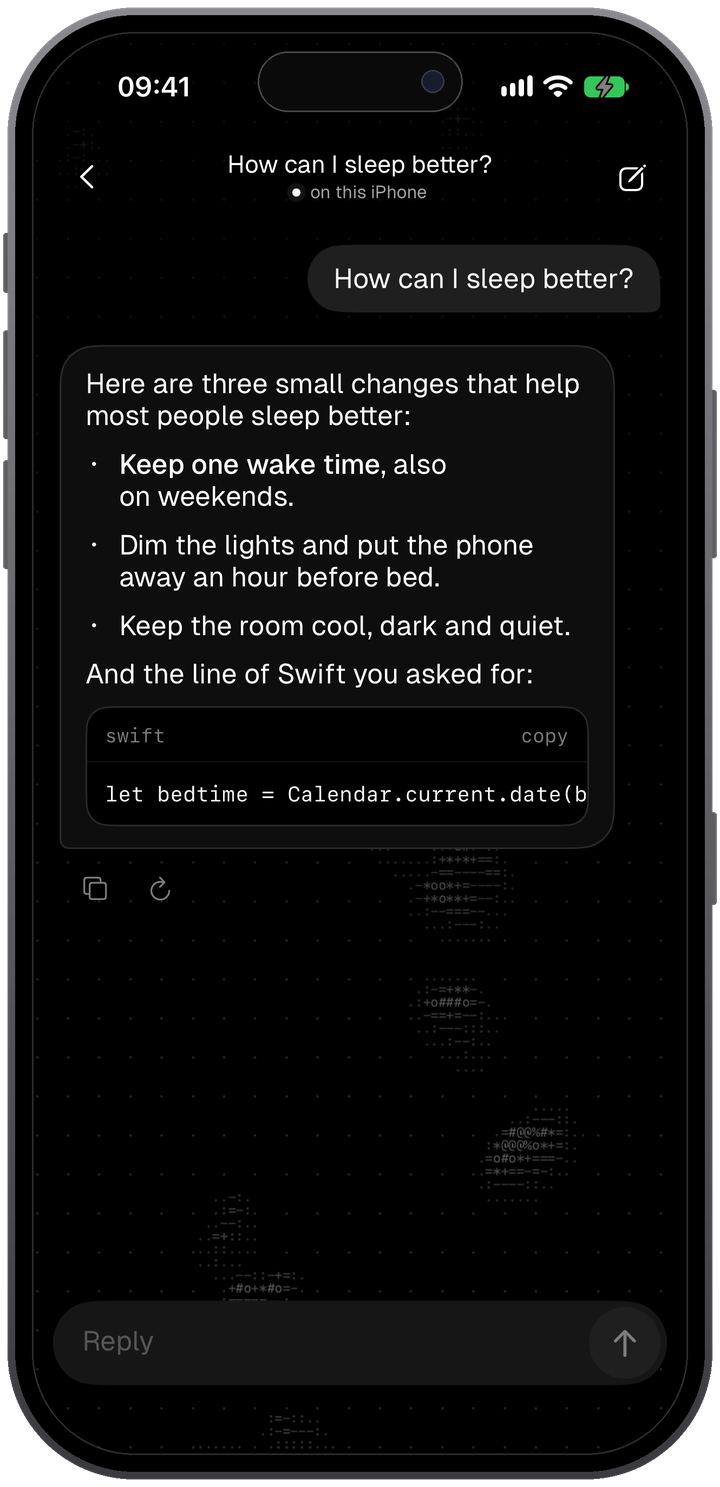
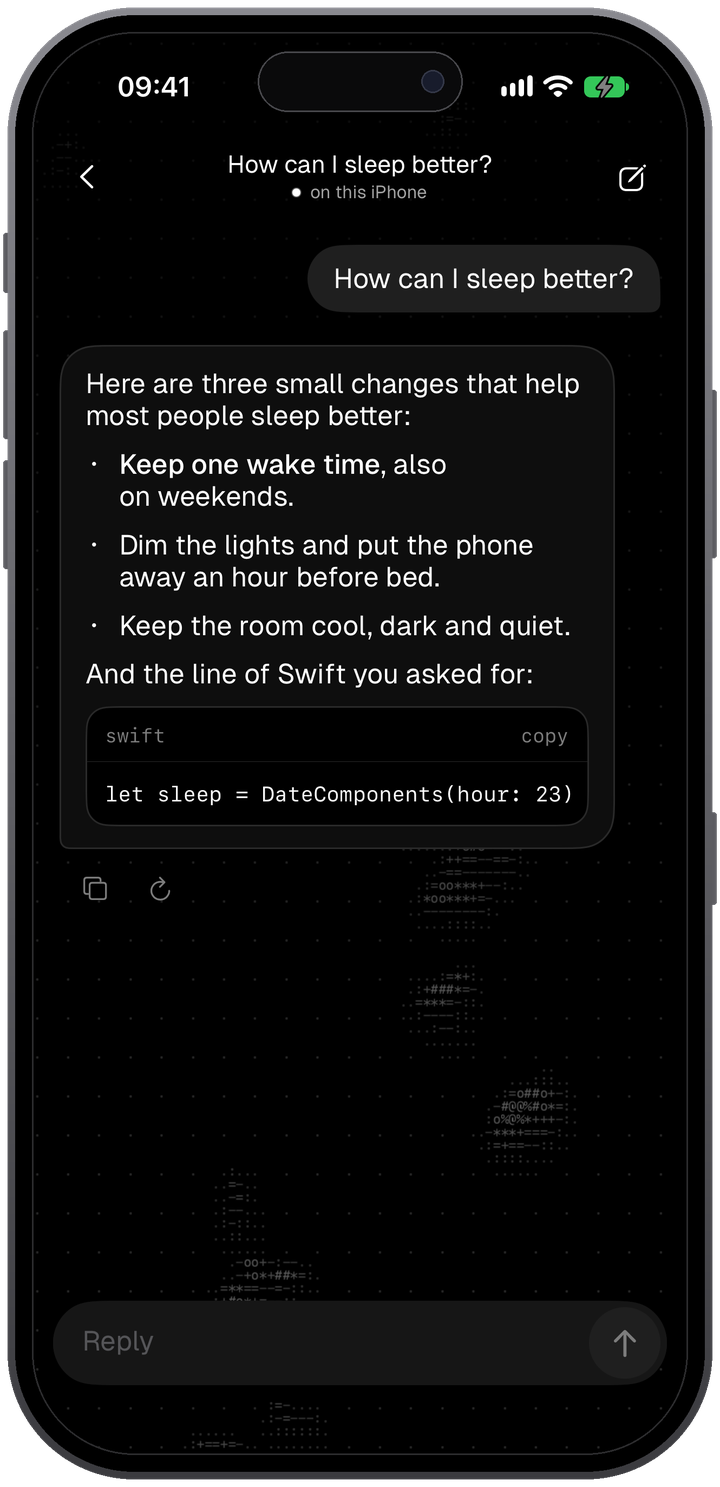
Shorter Swift line in the sample reply

diff --git a/QuietGPT/App/DebugLaunch.swift b/QuietGPT/App/DebugLaunch.swift
@@ -12,7 +12,7 @@ enum DebugLaunch {
     And the line of Swift you asked for:
 
     ```swift
-    let bedtime = Calendar.current.date(bySettingHour: 23, minute: 0, second: 0, of: .now)
+    let sleep = DateComponents(hour: 23)
     ```
     """
 
